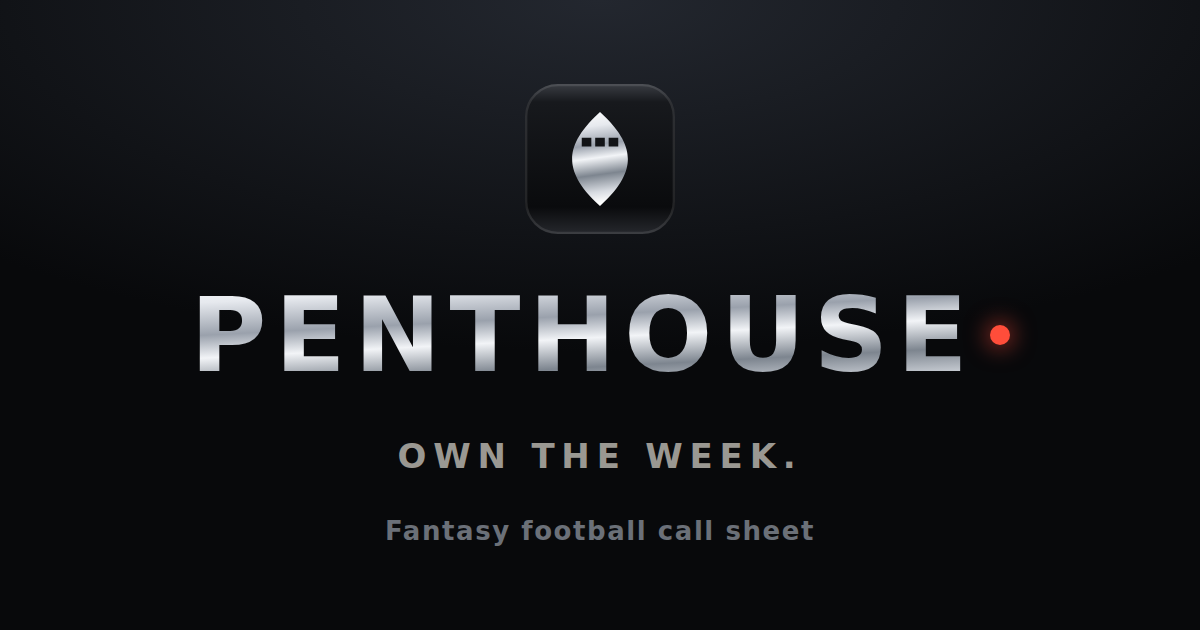
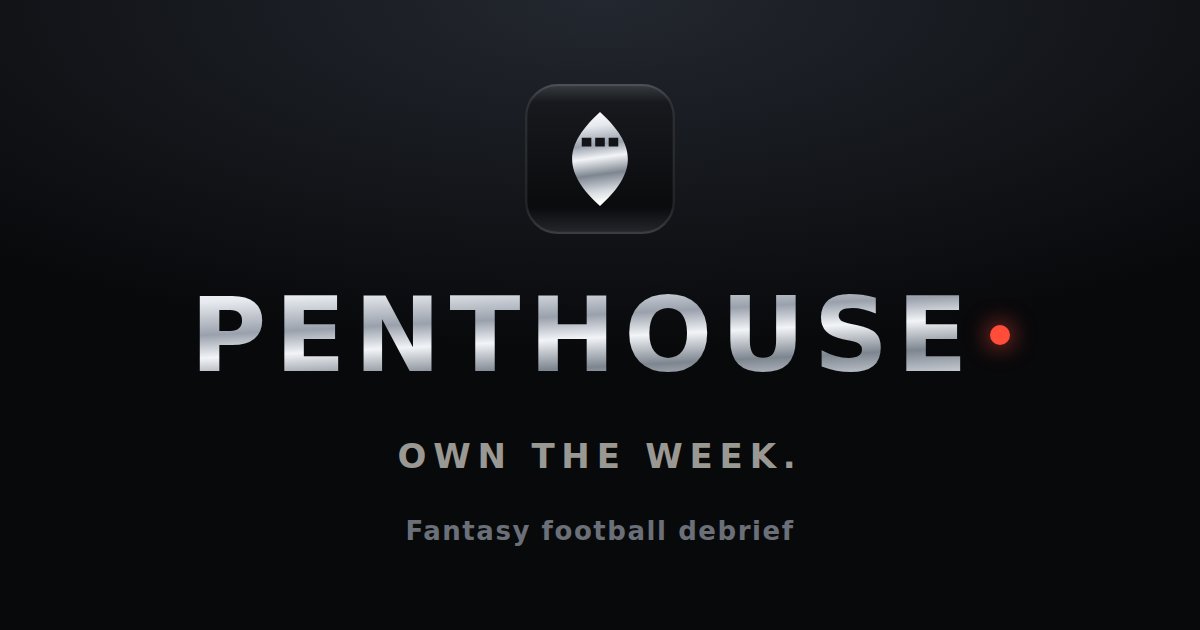
DB-1: the front page is the Debrief
"Call sheet" becomes "Debrief" everywhere a user reads it (D1): the tab and
page title, the gate phrase, the landing's second beat and its third step, the
OG title and description, the opening checklist's last line, the matchup page's
fallback, the weekly email's eyebrow, its two links and its plain-text header.

Code identifiers do not move. `CallSheet` the component, `.callsheet` the CSS
class, `sheet.ts`, `SheetGroup` and every `booth.*` storage key keep their
names: none of them is a word a user reads, and renaming the keys signs every
existing reader out of their league, their theme and their ticked calls
(docs/WEB.md).

New in vocab: `DEPARTMENTS`, the four memo eyebrows the Debrief is built from,
keyed by `TabKey` so a memo and the tab its door opens cannot drift apart, and
`DEPARTMENT_ORDER`, which is the tab bar minus the page the memos print on.
`home` is deliberately absent from both.

Three choices worth the line. The eyebrow cap is 26 characters because it
shares a 320px line with the memo's status; "From the head of scouting" is 25
and sets it. The vocab sweep now fails on any copy string still saying "call
sheet", so a half-applied rename cannot survive a test run -- which is the
whole reason section names live in one file. And `scripts/render_brand_assets.py`
was re-run for the descriptor on the unfurl card, so the image and the og:title
say the same thing; only opengraph-image.png changed, which is the renderer
being deterministic about the other three.
[…]

Changed region(s): [[0.3083, 0.8143, 0.6783, 0.8746]]

diff --git a/web/src/lib/vocab.ts b/web/src/lib/vocab.ts
@@ -1,11 +1,9 @@
 /**
  * Every section name the app says out loud, in one place.
  *
- * Coach vocabulary, and it survives the rebrand on purpose: the penthouse is where the
- * sheet is *read*, not a reason to rename the sheet. The nav names a room (call sheet,
- * depth chart, scouting, the GM's Office, the film) while what you *buy* keeps its
- * product name (Wire Pass, Trade Lab, The Penthouse) — those live in `edge/products.py`,
- * not here.
+ * Coach vocabulary. The nav names a room (the debrief, the depth chart, scouting, the
+ * GM's Office, the film) while what you *buy* keeps its product name (Wire Pass, Trade
+ * Lab, The Penthouse) — those live in `edge/products.py`, not here.
  *
  * It is one module rather than strings scattered across five pages and a tab bar
  * because renaming a section otherwise means a sweep through the app and its tests,
@@ -34,10 +32,10 @@ export interface Section {
 export const SECTIONS = {
   home: {
     href: "/home",
-    label: "Call sheet",
-    title: "Call sheet",
-    blurb: "This week\u2019s moves, ranked.",
-    gate: "your call sheet",
+    label: "Debrief",
+    title: "Debrief",
+    blurb: "What your staff needs you to see.",
+    gate: "your debrief",
   },
   // The tab says "Lineup" and the page says "Depth chart". "Depth" on its own is the
   // half of the phrase that carries none of the meaning — it reads as bench depth, which
@@ -71,8 +69,8 @@ export const SECTIONS = {
     blurb: "How your season is going.",
     gate: "the film",
   },
-  /** A room off the call sheet, not a tab of its own: it lives under `/home/` so the
-   *  call sheet tab stays lit while you are reading the week's opponent. */
+  /** A room off the Debrief, not a tab of its own: it lives under `/home/` so the
+   *  Debrief tab stays lit while you are reading the week's opponent. */
   matchup: {
     href: "/home/matchup",
     label: "Matchup",
@@ -85,9 +83,9 @@ export const SECTIONS = {
 export type SectionKey = keyof typeof SECTIONS;
 
 /**
- * Tab order, left to right. The call sheet is first because it is the whole product.
+ * Tab order, left to right. The Debrief is first because it is the whole product.
  *
- * Not every section is a tab — `matchup` is a room off the call sheet — so `TabKey` is
+ * Not every section is a tab — `matchup` is a room off the Debrief — so `TabKey` is
  * narrower than `SectionKey`, and anything keyed by tab (the icon map) has to be
  * exhaustive over the tabs only. Typing it the other way round meant adding a
  * non-tab section demanded an icon for a tab that does not exist.
@@ -95,6 +93,35 @@ export type SectionKey = keyof typeof SECTIONS;
 export const TAB_ORDER = ["home", "team", "waivers", "trade", "report"] as const;
 
 export type TabKey = (typeof TAB_ORDER)[number];
+
+/**
+ * Who is talking, on each memo of the Debrief.
+ *
+ * The Debrief is the secretary's one-page summary of what every department needs the
+ * owner to see this week, so each card is signed by the department rather than titled
+ * with the tab it opens. "From the head coach" says a person looked at your lineup;
+ * "Depth chart" says a screen exists. The door underneath still names the room, so the
+ * eyebrow never has to carry the navigation as well.
+ *
+ * Keyed by `TabKey` for the same reason `GROUPS` is: the memo and the tab its door
+ * points at cannot drift apart. `home` is absent because the Debrief is the page these
+ * memos are printed on, not a department that reports to it.
+ *
+ * Length is load-bearing. The eyebrow shares one line at 320px with the memo's status
+ * (a count, a deadline note or a stamp), which leaves it about 26 characters before it
+ * truncates — "From the head of scouting" is 25 and is the longest the room allows.
+ */
+export const DEPARTMENTS = {
+  team: "From the head coach",
+  waivers: "From the head of scouting",
+  trade: "From the GM\u2019s Office",
+  report: "From the film room",
+} as const satisfies Partial<Record<TabKey, string>>;
+
+export type DepartmentKey = keyof typeof DEPARTMENTS;
+
+/** Tab order, minus the Debrief itself: the memos print in the order of the bar. */
+export const DEPARTMENT_ORDER = ["team", "waivers", "trade", "report"] as const satisfies readonly DepartmentKey[];
 
 /**
  * The lines the brand says out loud, in one place for the same reason the section
@@ -114,7 +141,7 @@ export const LINES = {
   /** The marketing h1. Its whole job is the contrast with an encyclopedia. */
   hero: "Three moves before kickoff.",
   /** The second beat, where the contrast is said out loud. */
-  heroSub: "Everyone else hands you a database. We hand you a call sheet.",
+  heroSub: "Everyone else hands you a database. We hand you a debrief.",
 
   /** Crossing the threshold: /login, and the first email subject. */
   threshold: "Welcome to the owner\u2019s box.",
@@ -140,7 +167,7 @@ export const LINES = {
 } as const;
 
 /**
- * The call sheet's three benches, and what each one says when it has nothing to call.
+ * The Debrief's three working departments, and what each says when it has nothing to call.
  *
  * The sheet used to be one flat ranked list of cards, which answers "what is the single
  * biggest move" and nothing else. Grouped under the tab that owns each call, it answers
@@ -411,7 +438,7 @@ export const TRADE = {
 /** The weekly-email opt-in on /login. */
 export const EMAIL = {
   eyebrow: "Thursday email",
-  label: "Send me the call sheet every Thursday",
+  label: "Send me the debrief every Thursday",
   note: "This week's moves, in your inbox before kickoff. Untick it any time.",
   /*
    * Andrew's call. There is no Resend key and no verified sending domain yet (D5), so the

diff --git a/web/src/lib/vocab.test.ts b/web/src/lib/vocab.test.ts
@@ -3,6 +3,8 @@ import assert from "node:assert/strict";
 import {
   CONFIDENCE_HIT_LINE,
   CONNECT,
+  DEPARTMENTS,
+  DEPARTMENT_ORDER,
   EMAIL,
   GROUPS,
   LANDING,
@@ -27,6 +29,7 @@ const ALL_COPY: string[] = [
   ...Object.values(LINES),
   ...Object.values(CONNECT),
   ...Object.values(GROUPS).flatMap((g) => [g.clear, g.stamp]),
+  ...Object.values(DEPARTMENTS),
   ...LANDING.features.flatMap((f) => [f.room, f.title, f.tag, f.body]),
   LANDING.exampleHead,
   LANDING.score.head,
@@ -154,4 +157,52 @@ test("the last-week line offers no way to state a rate", () => {
   assert.equal(LAST_WEEK.calls(2, 3), "2 of 3 calls hit");
   assert.equal(LAST_WEEK.calls(1, 1), "1 of 1 call hit");
   assert.ok(!/%/.test(LAST_WEEK.calls(2, 3)));
+});
+
+/* ------------------------------------------------------------- the Debrief ---
+   The front page is the Debrief: one memo per department, each signed by whoever
+   is talking. These pin the rename and the eyebrows that replaced the hero.      */
+
+test("the front page is the Debrief, in the tab and on the page", () => {
+  // One name for one page (D1). The code identifiers do not move — `CallSheet` the
+  // component, `.callsheet` the CSS class, `sheet.ts`, and every `booth.*` storage key
+  // keep their names, because none of them is a word a user reads and renaming the keys
+  // signs every existing reader out of their league (docs/WEB.md).
+  assert.equal(SECTIONS.home.label, "Debrief");
+  assert.equal(SECTIONS.home.title, "Debrief");
+  assert.equal(SECTIONS.home.gate, "your debrief");
+  // The rename goes everywhere a user reads it, the landing's second beat included.
+  assert.match(LINES.heroSub, /debrief/);
+  assert.match(EMAIL.label, /debrief/);
+  for (const line of ALL_COPY) {
+    assert.ok(!/call sheet/i.test(line), `copy still says call sheet: ${line}`);
+  }
+});
+
+test("every department that reports to the Debrief has a memo eyebrow", () => {
+  // The Debrief prints all four, always, in tab order — an empty memo is the point,
+  // exactly as an empty bench was. `home` is the page they print on, not a department.
+  assert.deepEqual([...DEPARTMENT_ORDER], TAB_ORDER.filter((k) => k !== "home"));
+  for (const key of DEPARTMENT_ORDER) {
+    assert.ok(key in SECTIONS, `department "${key}" opens no section`);
+    assert.ok(DEPARTMENTS[key], `department "${key}" has no eyebrow`);
+  }
+  assert.equal(Object.keys(DEPARTMENTS).length, DEPARTMENT_ORDER.length);
+});
+
+test("an eyebrow is a person talking, and it fits the memo header", () => {
+  for (const key of DEPARTMENT_ORDER) {
+    const line = DEPARTMENTS[key];
+    // "From the …" is what makes it a memo rather than a section heading. A card titled
+    // "Depth chart" says a screen exists; "From the head coach" says somebody looked.
+    assert.match(line, /^From the /, `${key} eyebrow is not signed: ${line}`);
+    // It shares one line at 320px with the memo's status — a count, a deadline note or a
+    // stamp — which leaves about 26 characters before the eyebrow truncates.
+    assert.ok(line.length <= 26, `${key} eyebrow is ${line.length} chars, too long for 320px`);
+    // Same rules as every other line: no number, no claim, no verdict on the reader.
+    assert.ok(!/\d/.test(line), `${key} eyebrow states a number: ${line}`);
+  }
+  // Four different voices. Two departments signing the same name is a copy bug that
+  // reads as a rendering bug.
+  assert.equal(new Set(Object.values(DEPARTMENTS)).size, DEPARTMENT_ORDER.length);
 });

diff --git a/web/src/app/page.tsx b/web/src/app/page.tsx
@@ -70,7 +70,7 @@ const WAY_IN = "/connect";
 const STEPS = [
   { n: "1", title: "Hook up your league", body: "A Sleeper username or a league ID. No password, nothing to sign." },
   { n: "2", title: "We re-score everything", body: "Every projection re-scored to your league's own settings. Never assumed PPR." },
-  { n: "3", title: "You get a call sheet", body: "Ranked moves for the week, each with one line of why. Tick them off as you make them." },
+  { n: "3", title: "You get a debrief", body: "Ranked moves for the week, each with one line of why. Tick them off as you make them." },
 ];
 
 function initials(name: string): string {
@@ -171,7 +171,7 @@ export default function Landing() {
       </section>
 
       {/* The one dark surface: the product itself, so the page shows before it tells. */}
-      <section className="mt-9 rise rise-2" aria-label="Example call sheet">
+      <section className="mt-9 rise rise-2" aria-label="Example debrief">
         <div className="hero callsheet">
           <div className="flex items-center justify-between gap-3 border-b border-white/10 px-5 py-3">
             <OnAir className="text-white/70" />

diff --git a/web/src/app/layout.tsx b/web/src/app/layout.tsx
@@ -21,14 +21,14 @@ const archivo = Archivo({
   weight: ["600", "700", "800", "900"],
 });
 
-// The name is one word. The descriptor "fantasy football call sheet" rides beside it
+// The name is one word. The descriptor "fantasy football debrief" rides beside it
 // wherever context is missing and never fuses into it: "Penthouse Fantasy" as a bare
 // string reads as something else entirely in search. See docs/BRAND.md section 2.
 // The separator is the middot the rest of the app uses, not an em dash.
 const TITLE = "Penthouse · own the week";
-const OG_TITLE = "Penthouse · fantasy football call sheet";
+const OG_TITLE = "Penthouse · fantasy football debrief";
 const DESCRIPTION =
-  "Take the top floor. Penthouse writes your fantasy football call sheet every week: three moves before kickoff, who starts, who to claim, what to offer.";
+  "Take the top floor. Penthouse writes your fantasy football debrief every week: three moves before kickoff, who starts, who to claim, what to offer.";
 const OG_DESCRIPTION = "Three moves before kickoff: who starts, who to claim, what to offer. Own the week.";
 
 export const metadata: Metadata = {

diff --git a/web/e2e/smoke.spec.ts b/web/e2e/smoke.spec.ts
@@ -288,7 +288,7 @@ const PAGES: PageCase[] = [
   },
 ];
 
-test("the call sheet shows a player without a click, for a reader who has bought nothing", async ({ context, page }) => {
+test("the Debrief shows a player without a click, for a reader who has bought nothing", async ({ context, page }) => {
   // The finding this whole plan started from: the home screen showed no player names at
   // all, every row folded, headline "Pending moves: 2". A free reader is the one who must
   // see them -- it is the only screen they get in full.

diff --git a/web/src/app/home/matchup/page.tsx b/web/src/app/home/matchup/page.tsx
@@ -115,7 +115,7 @@ function MatchupBody({ c }: { c: Connection }) {
       <div className="card p-6 text-center">
         <Eyebrow>No matchup</Eyebrow>
         <p className="mx-auto mt-2 max-w-[18rem] text-[15px] leading-relaxed text-ink-2">
-          This league has no opponent on the board for week {feed.week}. The call sheet still stands.
+          This league has no opponent on the board for week {feed.week}. The debrief still stands.
         </p>
       </div>
     );

diff --git a/web/src/lib/wait.ts b/web/src/lib/wait.ts
@@ -76,7 +76,7 @@ export const OPENING_LINES = [
   "Reading your league",
   "Pulling this week's projections",
   "Re-scoring to your settings",
-  "Writing the call sheet",
+  "Writing the debrief",
 ] as const;
 
 /** How long a line sits unticked before its check lands. */

diff --git a/edge/delivery/weekly_email.py b/edge/delivery/weekly_email.py
@@ -1,4 +1,4 @@
-"""The weekly email: the call sheet, delivered before the user thinks to open the app.
+"""The weekly email: the Debrief, delivered before the user thinks to open the app.
 
 Email HTML is not web HTML. Gmail strips <style> blocks, Outlook ignores flexbox and most
 clients block nothing but render inconsistently, so everything here is tables and inline
@@ -37,8 +37,8 @@ METAL = "#dde1e6"
 TAGLINE = "Own the week."
 
 TYPE_COLOR = {"start": START, "waiver": LEAN, "trade": INK, "hold": MUTED}
-# What the call sheet calls each play. The raw feed type ("waiver") is a data word, not a
-# spoken one; the call sheet says "Claim".
+# What the Debrief calls each play. The raw feed type ("waiver") is a data word, not a
+# spoken one; the Debrief says "Claim".
 TYPE_LABEL = {"start": "Start", "waiver": "Claim", "trade": "Trade", "hold": "Hold"}
 CONFIDENCE_COLOR = {"Lock": START, "Lean": LEAN, "Coin flip": FLIP}
 MAX_ACTIONS = 4
@@ -107,7 +107,7 @@ def _stamp(label: str, color: str) -> str:
 
 
 def _action_row(a: dict, n: int, base_url: str) -> str:
-    """One call, numbered in the margin the way the web call sheet numbers it."""
+    """One call, numbered in the margin the way the web Debrief numbers it."""
     colour = TYPE_COLOR.get(a.get("type", ""), INK)
     label = TYPE_LABEL.get(a.get("type", ""), str(a.get("type") or "")).upper()
     # A hold already says "hold your budget" in the subtitle; repeating it underneath in green
@@ -169,7 +169,7 @@ def _action_row(a: dict, n: int, base_url: str) -> str:
                 {_esc(a.get('reason'))}</div>
               <a href="{_esc(href)}" style="display:inline-block;margin-top:12px;background:{INK};
                  color:#ffffff;text-decoration:none;font-size:14px;font-weight:700;padding:9px 14px;
-                 border-radius:8px;">{_esc(a.get('cta', {}).get('label') or 'Open the call sheet')}</a>
+                 border-radius:8px;">{_esc(a.get('cta', {}).get('label') or 'Open the debrief')}</a>
             </td>
           </tr>
         </table>
@@ -225,7 +225,7 @@ def render_html(feed: dict, base_url: str = "https://penthouse.example", unsubsc
         </table>
       </td></tr>
       <tr><td style="padding:22px 20px 8px 20px;">
-        {_eyebrow(f"Call sheet &middot; Week {_esc(feed.get('week'))} &middot; {_esc(feed.get('team'))}")}
+        {_eyebrow(f"Debrief &middot; Week {_esc(feed.get('week'))} &middot; {_esc(feed.get('team'))}")}
         <div style="font-size:26px;font-weight:800;color:{INK};line-height:1.2;margin-top:6px;">
           {_esc(feed.get('summary'))}</div>
         <div style="font-size:13px;color:{MUTED};margin-top:6px;">{sheet_line}.</div>
@@ -241,7 +241,7 @@ def render_html(feed: dict, base_url: str = "https://penthouse.example", unsubsc
         <div style="font-size:11px;font-weight:700;letter-spacing:1.4px;text-transform:uppercase;
              color:{MUTED};text-align:center;margin-top:14px;">{TAGLINE}</div>
         <div style="font-size:12px;color:{MUTED};text-align:center;margin-top:10px;">
-          <a href="{_esc(base_url)}/home" style="color:{MUTED};">Open the call sheet</a>
+          <a href="{_esc(base_url)}/home" style="color:{MUTED};">Open the debrief</a>
           {' &middot; ' + unsub if unsub else ''}
         </div>
       </td></tr>
@@ -257,7 +257,7 @@ def render_text(feed: dict, base_url: str = "https://penthouse.example") -> str:
     It carries the same margin numbers as the HTML, so a reply quoting "02" means the same
     call in either version.
     """
-    lines = ["PENTHOUSE — CALL SHEET",
+    lines = ["PENTHOUSE — DEBRIEF",
              f"Week {feed.get('week')} · {feed.get('team')}",
              feed.get("summary", ""), ""]
     m = feed.get("matchup") or {}

diff --git a/tests/test_weekly_email.py b/tests/test_weekly_email.py
@@ -149,10 +149,10 @@ def test_the_framing_copy_uses_house_vocabulary(league, ros_byes):
     feed = _feed(league, league.teams[1], {"my_team", "waivers", "trade_lab"}, ros_byes)
     built = em.build(feed, base_url="https://edge.example")
     visible = " ".join(em.visible_text(built["html"]).split())
-    for phrase in ("PENTHOUSE", "ON AIR", f"Call sheet · Week {feed['week']}", em.TAGLINE,
-                   "Open the call sheet"):
+    for phrase in ("PENTHOUSE", "ON AIR", f"Debrief · Week {feed['week']}", em.TAGLINE,
+                   "Open the debrief"):
         assert phrase in visible, f"missing {phrase!r}"
-    assert "PENTHOUSE — CALL SHEET" in built["text"] and em.TAGLINE in built["text"]
+    assert "PENTHOUSE — DEBRIEF" in built["text"] and em.TAGLINE in built["text"]
     # The mark is never a gradient here: background-clip:text is invisible in Outlook.
     assert "background-clip" not in built["html"], "the email wordmark must be flat colour"
     # A waiver claim is called a claim on the sheet, not by its data-model name.

diff --git a/scripts/render_brand_assets.py b/scripts/render_brand_assets.py
@@ -123,7 +123,7 @@ def main() -> None:
       box-shadow:0 0 22px 3px rgba(255,77,58,.55)"></span>
   </div>
   <div style="font-size:34px;font-weight:700;letter-spacing:.2em;text-transform:uppercase;color:#9a9892">{TAGLINE}</div>
-  <div style="font-size:26px;font-weight:600;letter-spacing:.06em;color:#6b7078">Fantasy football call sheet</div>
+  <div style="font-size:26px;font-weight:600;letter-spacing:.06em;color:#6b7078">Fantasy football debrief</div>
 </div>""")
         _shot(page, og, 1200, 630, APP / "opengraph-image.png")
 

diff --git a/docs/BRAND.md b/docs/BRAND.md
@@ -34,13 +34,13 @@ that sentence. If an asset could belong to a sportsbook or a DFS app, it is not 
 
 **Product name: Penthouse.** One word, everywhere a user reads it.
 
-**Descriptor: fantasy football call sheet.** It rides beside the name where context is
+**Descriptor: fantasy football debrief.** It rides beside the name where context is
 missing — title tags, app-store listing, social bios, the first email — and never
 becomes part of the name.
 
 ```
 <title>          Penthouse · own the week
-og:title         Penthouse · fantasy football call sheet
+og:title         Penthouse · fantasy football debrief
 social bio       Penthouse. Fantasy football, three moves before kickoff.
 handle           penthousefootball  (not penthousefantasy)
 ```
@@ -95,7 +95,7 @@ reason to rename the sheet.
 
 | Room | Tab | What it is |
 |---|---|---|
-| Call sheet | `/home` | The three moves. The whole product. |
+| Debrief | `/home` | One memo per department. The whole product. |
 | Depth chart | `/team` | Start/sit with a stamp and a one-line reason. The tab reads **Lineup**: "Depth" alone reads as bench depth. |
 | Scouting | `/waivers` | The wire: five pickups, ranked by fit, with a bid |
 | GM's Office | `/trade` | Trade Lab: verdict and counter |
@@ -114,7 +114,7 @@ the landing page sound like a lobby.
 |---|---|---|
 | `tagline` | **Own the week.** | Landing footer, share card, OG image, email. Locked. |
 | `hero` | Three moves before kickoff. | Landing h1 |
-| `heroSub` | Everyone else hands you a database. We hand you a call sheet. | Landing, second beat |
+| `heroSub` | Everyone else hands you a database. We hand you a debrief. | Landing, second beat |
 | `threshold` | Welcome to the owner's box. | `/login` eyebrow, `/connect` h1 |
 | `thresholdShort` | Take the top floor. | Meta description |
 | `paywallBundle` | The rest of the building. | The Penthouse card in `Pricing` |

diff --git a/docs/MAP.md b/docs/MAP.md
@@ -134,7 +134,7 @@ _Generated from the tree by `scripts/gen_map.py`; `tests/test_docs_map.py` fails
 | `edge/data/scoring.py` | Score a raw stat line against a league's scoring settings (Sleeper stat vocabulary). | scoring, evaluate_moves +1 | 16 |
 | `edge/data/sleeper_api.py` | Thin HTTP layer for Sleeper. Everything public, no auth. Cached players file on disk. | evaluate_moves, league_formats +4 | 106 |
 | `edge/delivery/send.py` | Actually putting the weekly email in someone's inbox. | send | 169 |
-| `edge/delivery/weekly_email.py` | The weekly email: the call sheet, delivered before the user thinks to open the app. | weekly_email, send | 298 |
+| `edge/delivery/weekly_email.py` | The weekly email: the Debrief, delivered before the user thinks to open the app. | weekly_email, send | 298 |
 | `edge/engine/actions.py` | The Action feed: everything the engine knows, ranked as a short list of moves worth making. | actions, copy +10 | 252 |
 | `edge/engine/copy.py` | Small helpers for prose the user actually reads. | copy | 37 |
 | `edge/engine/explain.py` | Trade explanation text. Template by default (free). Claude API when EDGE_USE_CLAUDE=1 and | trade | 76 |
@@ -246,7 +246,7 @@ _Generated from the tree by `scripts/gen_map.py`; `tests/test_docs_map.py` fails
 | `web/src/lib/teaser.ts` | Which sentence goes in a paywall. | 21 |
 | `web/src/lib/types.ts` | Mirrors docs/API.md (Penthouse API contract v1). | 829 |
 | `web/src/lib/unlock.ts` | Waiting for a purchase to take effect. | 92 |
-| `web/src/lib/vocab.ts` | Every section name the app says out loud, in one place. | 428 |
+| `web/src/lib/vocab.ts` | Every section name the app says out loud, in one place. | 455 |
 | `web/src/lib/wait.ts` | Who is allowed to narrate, and how many waits are on screen. | 174 |
 
 <!-- END GENERATED -->
